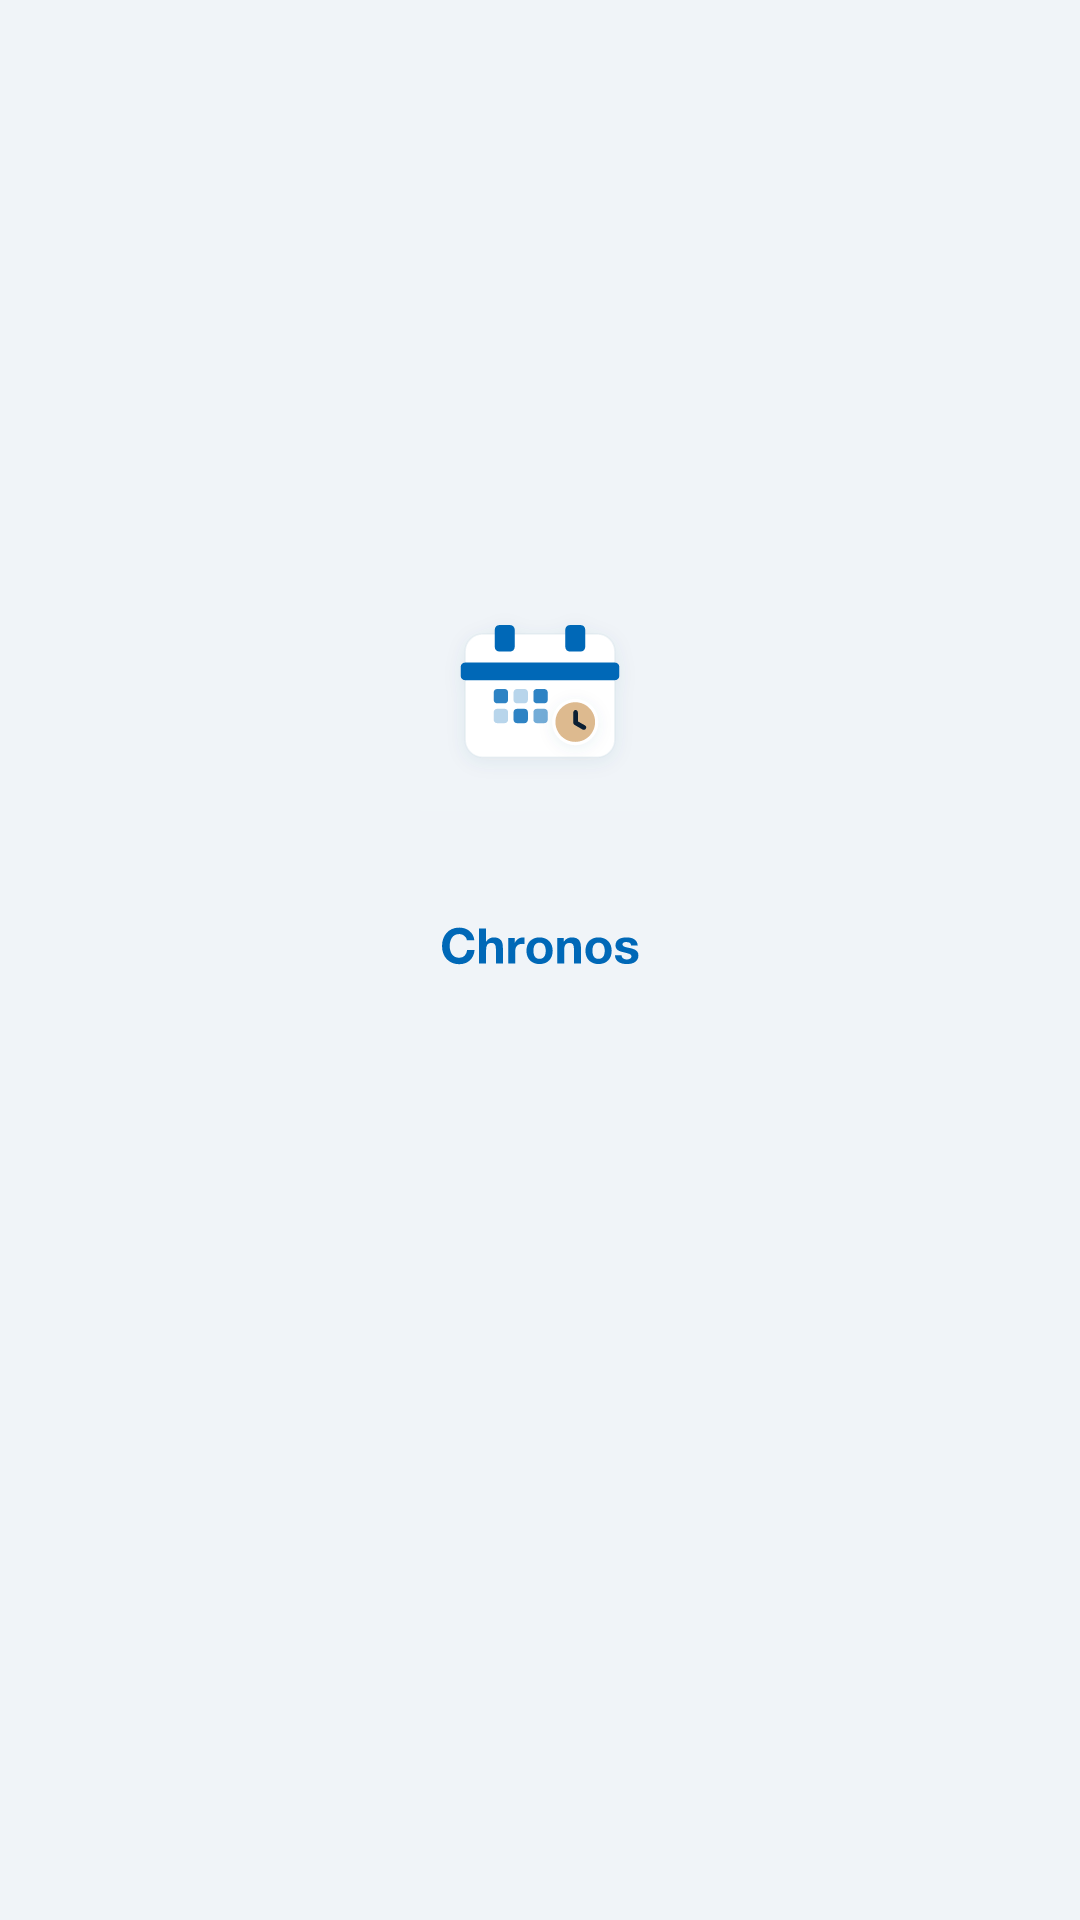
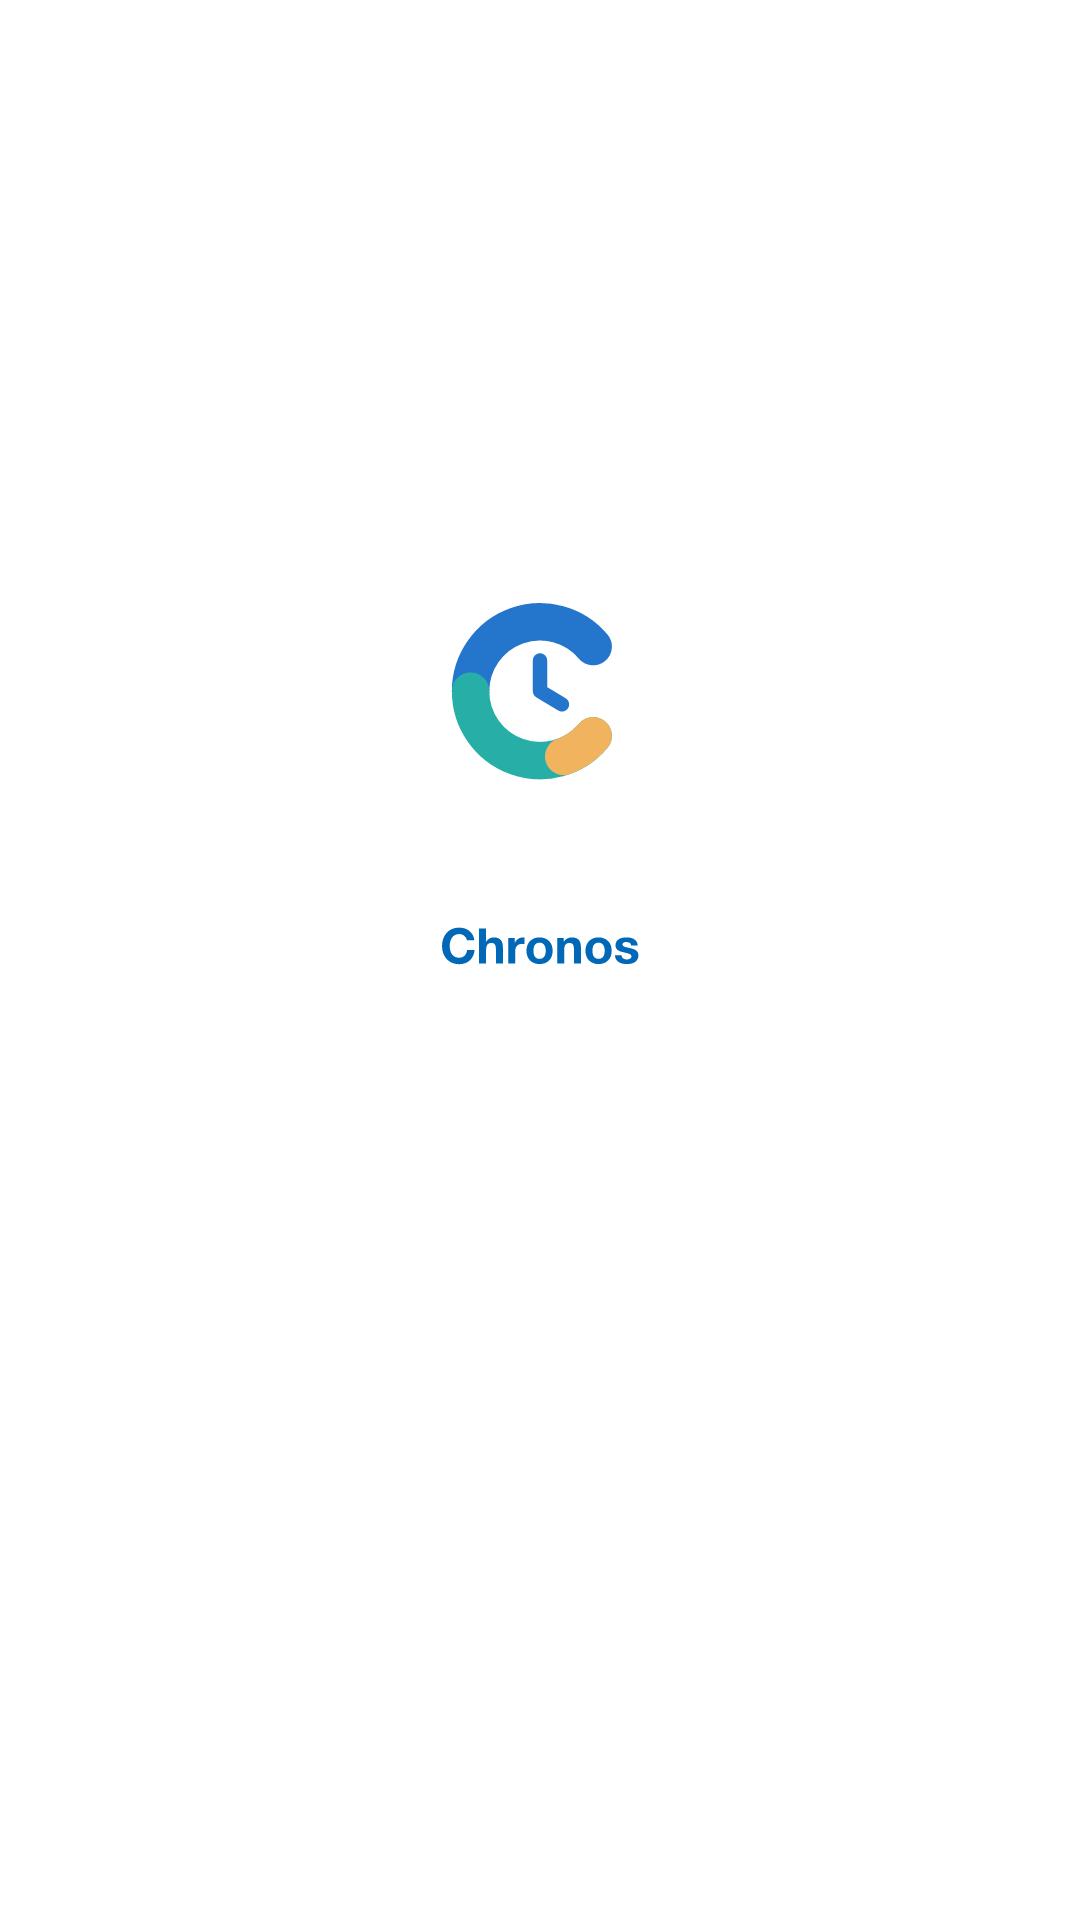
🎨 重设计应用图标并统一资源生成

Changed region(s): [[0.3972, 0.3125, 0.5806, 0.4062]]

diff --git a/scripts/generate-icons.ts b/scripts/generate-icons.ts
@@ -9,7 +9,7 @@ const pwaDir = resolve(webStatic, 'pwa');
 const sourceSvgPath = resolve(webStatic, 'chronos-icon.svg');
 const androidRes = resolve(root, 'apps/mobile/android/app/src/main/res');
 
-const BG = '#f0f4f8';
+const BG = '#FFFFFF';
 const BRAND = '#0068B7';
 const SOURCE_VIEWBOX = 108;
 /** Maskable safe zone: keep artwork inside the central ~80%. */
@@ -19,6 +19,9 @@ mkdirSync(pwaDir, { recursive: true });
 
 const sourceSvg = readFileSync(sourceSvgPath, 'utf8');
 const sourceInner = extractSvgInner(sourceSvg);
+
+// Keep the browser favicon and in-app mark identical to the launcher artwork.
+writeFileSync(resolve(root, 'apps/web/src/lib/assets/favicon.svg'), sourceSvg);
 
 function extractSvgInner(svg: string): string {
 	const match = svg.match(/<svg\b[^>]*>([\s\S]*)<\/svg\s*>/i);
@@ -117,7 +120,7 @@ const maskable512 = paddedIconSvg(512, MASKABLE_SAFE_RATIO);
 writePng(resolve(webStatic, 'pwa-192-maskable.png'), maskable192, 192);
 writePng(resolve(webStatic, 'pwa-512-maskable.png'), maskable512, 512);
 
-// Apple touch icon: mild padding on splash background
+// Apple touch icon: mild padding on the white icon background.
 writePng(resolve(webStatic, 'apple-touch-icon.png'), paddedIconSvg(180, 0.86), 180);
 
 const narrowW = 1080;
